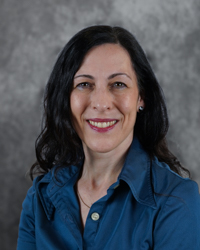
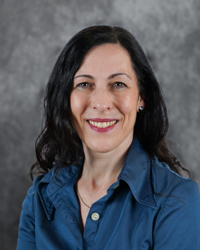
pushed updated for main and aa3
added staff section, changed application process wording for step 1 and 2

Changed region(s): [[0.33, 0.168, 0.72, 0.896]]

diff --git a/index.html b/index.html
@@ -321,7 +321,12 @@
                                     </a>
                                 </div>
                                 <div id="collapseGisele" class="collapse" data-parent="#accordion-1">
-                                    <div class="card-body"></div>
+                                    <div class="card-body">
+                                        Gisele has been a certified Feldenkrais practitioner since 2001 and has maintained a full-time practice ever since, working with people of all ages and backgrounds. 
+                                        She has a degree in physiotherapy and worked in that field for decades before devoting her professional life full-time to Feldenkrais work. 
+                                        She has worked in multiple trainings and mentors certified practitioners. 
+                                        She delights in sharing her passion for this work with trainees and colleagues alike.
+                                    </div>
                                 </div>
                             </div>
                             <div class="card wow fadeInLeft" data-wow-delay="0.2s">
@@ -337,6 +342,7 @@
                                     <div class="card-body"></div>
                                 </div>
                             </div>
+                            <!--
                             <div class="card wow fadeInLeft" data-wow-delay="0.2s">
                                 <div class="card-header">
                                     <div class="card-header-img">
@@ -359,7 +365,7 @@
                                 </div>
                                 
                             </div>
-
+                            -->
 
                         </div>
                     </div>
@@ -392,7 +398,7 @@
                                         <img src="img/Allison_web.jpg" alt="Image">
                                     </div>
                                     <a class="card-link collapsed" data-toggle="collapse" href="#collapseAllison">
-                                        Allison Green<br>Training Director and Organizer
+                                        Allison Green &emsp;&emsp;&emsp;&emsp;Institute Founder<br>Training Organizer, &amp; Assistant Trainer
                                     </a>
                                 </div>
                                 <div id="collapseAllison" class="collapse" data-parent="#accordion-2">
@@ -446,6 +452,7 @@
                                     <div class="card-body"></div>
                                 </div>
                             </div>
+                            <!--
                             <div class="card wow fadeInRight" data-wow-delay="0.2s">
                                 <div class="card-header">
                                     <div class="card-header-img">
@@ -455,7 +462,6 @@
                                         Leeann Fu<br>Support Coordinator & Technology Specialist
                                     </a>
                                 </div>
-                                
                             </div>
                             <div class="card wow fadeInRight" data-wow-delay="0.2s">
                                 <div class="card-header">
@@ -466,8 +472,8 @@
                                         Katherine Kerschbaum<br>Program Coordinator
                                     </a>
                                 </div>
-                                
                             </div>
+                        -->
 
                             
                         </div>
@@ -498,7 +504,7 @@
                                         <img src="img/Allison_web.jpg" alt="Image">
                                     </div>
                                     <a class="card-link collapsed" data-toggle="collapse" href="#collapseAllison">
-                                        Allison Green<br>Training Director and Organizer
+                                        Allison Green<br>Institute Founder, Training Organizer, & Assistant Trainer
                                     </a>
                                 </div>
                                 <div id="collapseAllison" class="collapse" data-parent="#accordion-2">
@@ -578,7 +584,12 @@
                                     </a>
                                 </div>
                                 <div id="collapseGisele" class="collapse" data-parent="#accordion-1">
-                                    <div class="card-body"></div>
+                                    <div class="card-body">
+                                        Gisele has been a certified Feldenkrais practitioner since 2001 and has maintained a full-time practice ever since, working with people of all ages and backgrounds. 
+                                        She has a degree in physiotherapy and worked in that field for decades before devoting her professional life full-time to Feldenkrais work. 
+                                        She has worked in multiple trainings and mentors certified practitioners. 
+                                        She delights in sharing her passion for this work with trainees and colleagues alike.
+                                    </div>
                                 </div>
                             </div>
                             <div class="card wow fadeInRight" data-wow-delay="0.2s">
@@ -607,6 +618,8 @@
                                     <div class="card-body"></div>
                                 </div>
                             </div>
+
+                            <!--
                             <div class="card wow fadeInRight" data-wow-delay="0.2s">
                                 <div class="card-header">
                                     <div class="card-header-img">
@@ -649,15 +662,114 @@
                                         Janet Hubert<br>Student Liaison & Student Experience Coordinator
                                     </a>
                                 </div>
-                                
+                            </div>
+                        -->
+
+                        </div>
+                    </div>
+                </div>
+                <div class="section-header text-center">
+                    <h2><br>Our Staff</h2>
+                    </div>
+                <div class="row">
+                    <div class="col-md-6">
+                        <div id="accordion-1">
+                            
+                            <div class="card wow fadeInLeft" data-wow-delay="0.2s">
+                                <div class="card-header">
+                                    <div class="card-header-img">
+                                        <img src="img/Katy_web.jpg" alt="Image">
+                                    </div>
+                                    <a class="card-link collapsed">
+                                        Katy Lubahn<br>Program Administrator
+                                    </a>
+                                </div>
+                            </div>
+                            <div class="card wow fadeInLeft" data-wow-delay="0.2s">
+                                <div class="card-header">
+                                    <div class="card-header-img">
+                                        <img src="img/Janet_web.jpg" alt="Image">
+                                    </div>
+                                    <a class="card-link collapsed">
+                                        Janet Hubert<br>Student Liaison & Student Experience Coordinator
+                                    </a>
+                                </div>
                             </div>
 
-
+                        </div>
+                    </div>
+                    <div class="col-md-6">
+                        <div id="accordion-2">
+                            <div class="card wow fadeInRight" data-wow-delay="0.2s">
+                                <div class="card-header">
+                                    <div class="card-header-img">
+                                        <img src="img/Leeann_web.jpg" alt="Image">
+                                    </div>
+                                    <a class="card-link collapsed">
+                                        Leeann Fu<br>Support Coordinator & Technology Specialist
+                                    </a>
+                                </div>
+                            </div>
+                            <div class="card wow fadeInRight" data-wow-delay="0.2s">
+                                <div class="card-header">
+                                    <div class="card-header-img">
+                                        <img src="img/Katie_web.jpg" alt="Image">
+                                    </div>
+                                    <a class="card-link collapsed">
+                                        Katherine Kerschbaum<br>Program Coordinator
+                                    </a>
+                                </div>
+                            </div>
+                        </div>
+                    </div>
+                    <div class="col-md-6">
+                        <div id="accordion-3">
+                            <div class="card wow fadeInLeft" data-wow-delay="0.2s">
+                                <div class="card-header">
+                                    <div class="card-header-img">
+                                        <img src="img/Katy_web.jpg" alt="Image">
+                                    </div>
+                                    <a class="card-link collapsed">
+                                        Katy Lubahn<br>Program Administrator
+                                    </a>
+                                </div>
+                            </div>
+                            <div class="card wow fadeInLeft" data-wow-delay="0.2s">
+                                <div class="card-header">
+                                    <div class="card-header-img">
+                                        <img src="img/Janet_web.jpg" alt="Image">
+                                    </div>
+                                    <a class="card-link collapsed">
+                                        Janet Hubert<br>Student Liaison & Student Experience Coordinator
+                                    </a>
+                                </div>
+                            </div>
+                            <div class="card wow fadeInRight" data-wow-delay="0.2s">
+                                <div class="card-header">
+                                    <div class="card-header-img">
+                                        <img src="img/Leeann_web.jpg" alt="Image">
+                                    </div>
+                                    <a class="card-link collapsed">
+                                        Leeann Fu<br>Support Coordinator & Technology Specialist
+                                    </a>
+                                </div>
+                            </div>
+                            <div class="card wow fadeInRight" data-wow-delay="0.2s">
+                                <div class="card-header">
+                                    <div class="card-header-img">
+                                        <img src="img/Katie_web.jpg" alt="Image">
+                                    </div>
+                                    <a class="card-link collapsed">
+                                        Katherine Kerschbaum<br>Program Coordinator
+                                    </a>
+                                </div>
+                            </div>
                         </div>
                     </div>
                 </div>
             </div>
         </div>
+
         <!-- Instructors End -->
         <!-- Location Start -->
         <div id="location" class="about wow fadeInUp" data-wow-delay="0.1s">
@@ -767,19 +879,21 @@
                         <div class="admissions-steps">
                             <h2>Step One: Fill Out the Application Form</h2>
                             <p><a class="btn" href="https://bigin.zoho.com/crm/WebFormServeServlet?rid=5829f8748a33d6769149266f2c595915cd414d59954779ed5d38a9a1ae0f67cagidc374c5136541854617bc2ef5d7edcfe6d412ab01c14334e9705e00211c527083">Online Application</a>
-                            <p>
+                            
+                                <!--<p>
                                 You should receive an email upon form submission that you must open and click on the "Confirm Submission" link to send the application.
                                 <br>If you didn't receive a confirmation email please resend or contact <a href="mailto:feldenkraisaa@gmail.com">feldenkraisaa@gmail.com.</a>
                                 <br>
                             </p>
+                            -->
                         </div>
 
                         <div class="admissions-steps">
-                            <h2>Step Two: Submit Your Application Processing Fee</h2>
+                            <h2><br>Step Two: Submit Your Application Processing Fee</h2>
                             <p>
-                                <br>After receiving the invoice by email please submit your $100 application fee.
-                                The payment link on the email will give you PayPal or Stripe payment options.
-                                If you need assistance with any of these steps email us at feldenkraisaa@gmail.com
+                                <br>Within one week of receiving your application, we will create an invoice for your $100 application fee and email it to you. 
+                                Please watch for an email from feldenkraisaa@gmail.com with the subject of “Welcome!” Use the link or QR code on the attached invoice to submit your payment. 
+                                If you have not received an invoice after one week, please email us at the above address.
                                 <br><br>
                             </p>
                         </div>

diff --git a/annarbor3.html b/annarbor3.html
@@ -561,18 +561,16 @@
                         <div class="admissions-steps">
                             <h2>Step One: Fill Out the Application Form</h2>
                             <p><a class="btn" href="https://bigin.zoho.com/crm/WebFormServeServlet?rid=5829f8748a33d6769149266f2c595915cd414d59954779ed5d38a9a1ae0f67cagidc374c5136541854617bc2ef5d7edcfe6d412ab01c14334e9705e00211c527083">Online Application</a>
-                            <p>You should receive an email upon form submission that you must open and click on the "Confirm Submission" link to send the application.
-                            <br>If you didn't receive a confirmation email please resend or contact <a href="mailto:feldenkraisaa@gmail.com">feldenkraisaa@gmail.com.</a>
-                            <br></p>
+                            
                         </div>
 
                         <div class="admissions-steps">
                             <h2>Step Two: Submit Your Application Processing Fee</h2>
                             <p>
-                                <br>After receiving the invoice by email please submit your $100 application fee.
-                                The payment link on the email will give you PayPal or Stripe payment options.
-                                If you need assistance with any of these steps email us at feldenkraisaa@gmail.com
-                                <br><br>
+                                <br>Within one week of receiving your application, we will create an invoice for your $100 application fee and email it to you. 
+                                Please watch for an email from feldenkraisaa@gmail.com with the subject of “Welcome!” Use the link or QR code on the attached invoice to submit your payment. 
+                                If you have not received an invoice after one week, please email us at the above address.
+                                <br>
                             </p>
                         </div>
 

diff --git a/css/aa2core.css b/css/aa2core.css
@@ -689,11 +689,11 @@ a:focus {
     position: relative;
     margin-top: 15px;
     padding: 15px 35px;
-    min-width: 250px;
+    min-width: 350px;
     font-size: 16px;
     font-weight: 500;
     letter-spacing: 1px;
-    color: #789bb3;
+    color: #FFFFFF;
     border-radius: 5px;
     background: #030f27;
     transition: .3s;
